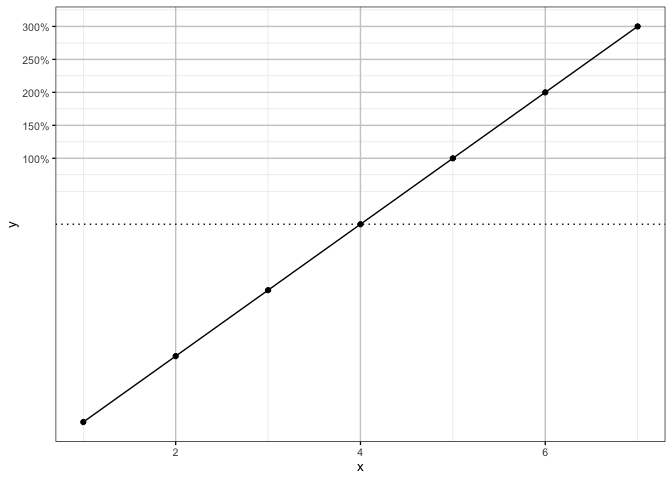
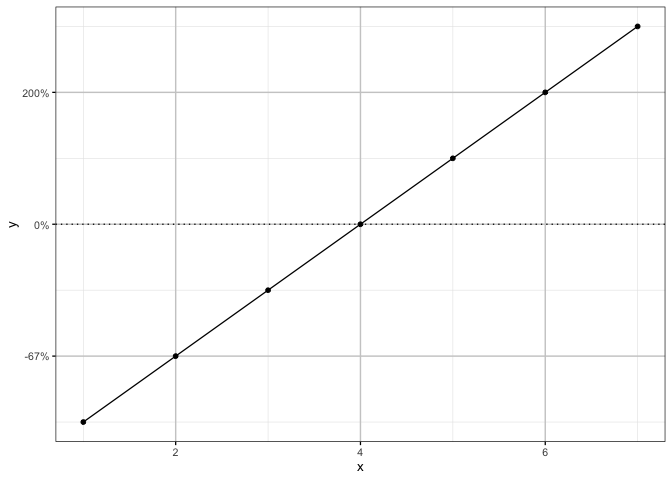
Update README and figures

diff --git a/README.md b/README.md
@@ -1,4 +1,6 @@
+
 <!-- README.md is generated from README.Rmd. Please edit that file -->
+
 <!-- badges: start -->
 
 [![Lifecycle:
@@ -25,35 +27,41 @@ percent change (which is unlimited). This results in positive changes
 appearing much larger than equivalent negative changes in a standard
 plot.
 
-    library(poisplot)
-    library(ggplot2)
-    library(scales)
+``` r
+library(poisplot)
+library(ggplot2)
+library(scales)
 
-    data <- data.frame(y = c(-3 / 4, -2 / 3, -1 / 2, 0, 1, 2, 3))
-    data$x <- 1:nrow(data)
+data <- data.frame(y = c(-3 / 4, -2 / 3, -1 / 2, 0, 1, 2, 3))
+data$x <- 1:nrow(data)
 
-    gp <- ggplot(data, aes(x = x, y = y)) +
-      geom_hline(yintercept = 0, linetype = "dotted") +
-      geom_line() +
-      geom_point()
+gp <- ggplot(data, aes(x = x, y = y)) +
+  geom_hline(yintercept = 0, linetype = "dotted") +
+  geom_line() +
+  geom_point()
 
-    gp + scale_y_continuous(labels = percent)
+gp + scale_y_continuous(labels = percent)
+```
 
-<img src="man/figures/README-unnamed-chunk-2-1.png" width="100%" />
+<img src="man/figures/README-unnamed-chunk-2-1.png" alt="" width="100%" />
 
 The `nfold_trans()` function ensures that negative percent changes scale
 in the same way as positive percent changes.
 
-    gp + scale_y_continuous(labels = percent, trans = nfold_trans(), breaks = data$y)
+``` r
+gp + scale_y_continuous(labels = percent, trans = nfold_trans(), breaks = data$y)
+```
 
-<img src="man/figures/README-unnamed-chunk-3-1.png" width="100%" />
+<img src="man/figures/README-unnamed-chunk-3-1.png" alt="" width="100%" />
 
 The poisplot also makes the Poisson plot theme available.
 
-    gp + scale_y_nfold(labels = percent) +
-      theme_Poisson()
+``` r
+gp + scale_y_nfold(labels = percent) +
+  theme_Poisson()
+```
 
-<img src="man/figures/README-unnamed-chunk-4-1.png" width="100%" />
+<img src="man/figures/README-unnamed-chunk-4-1.png" alt="" width="100%" />
 
 ## Installation
 